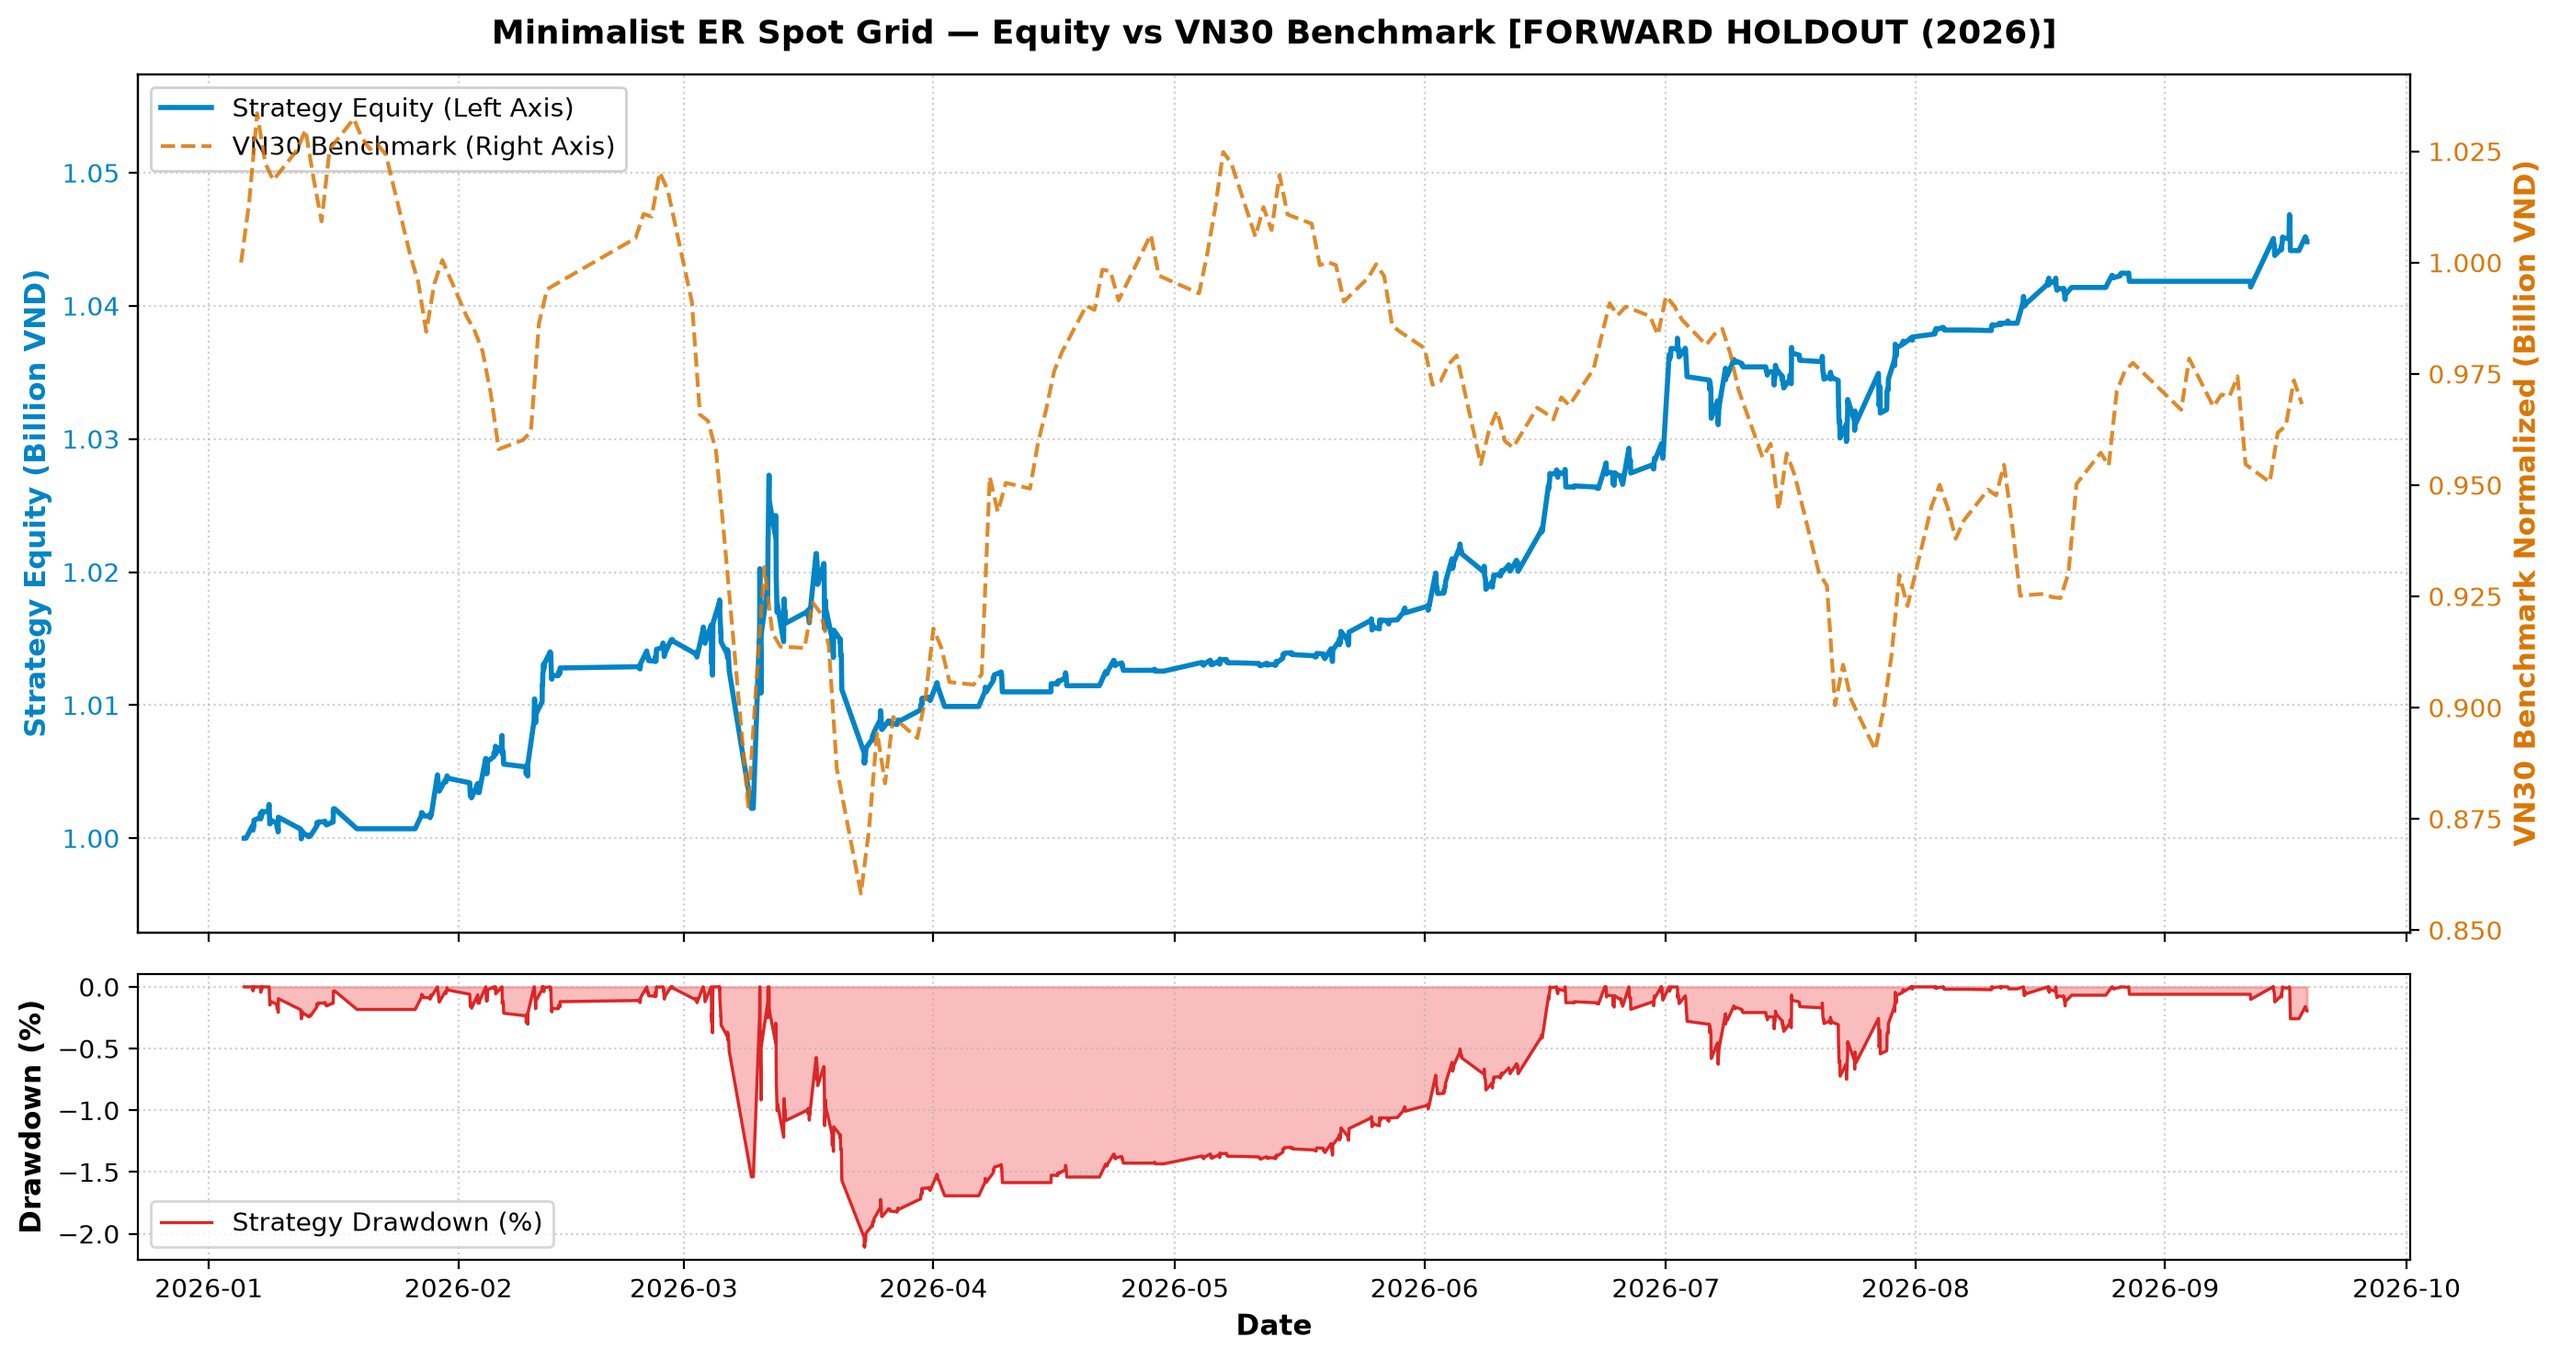
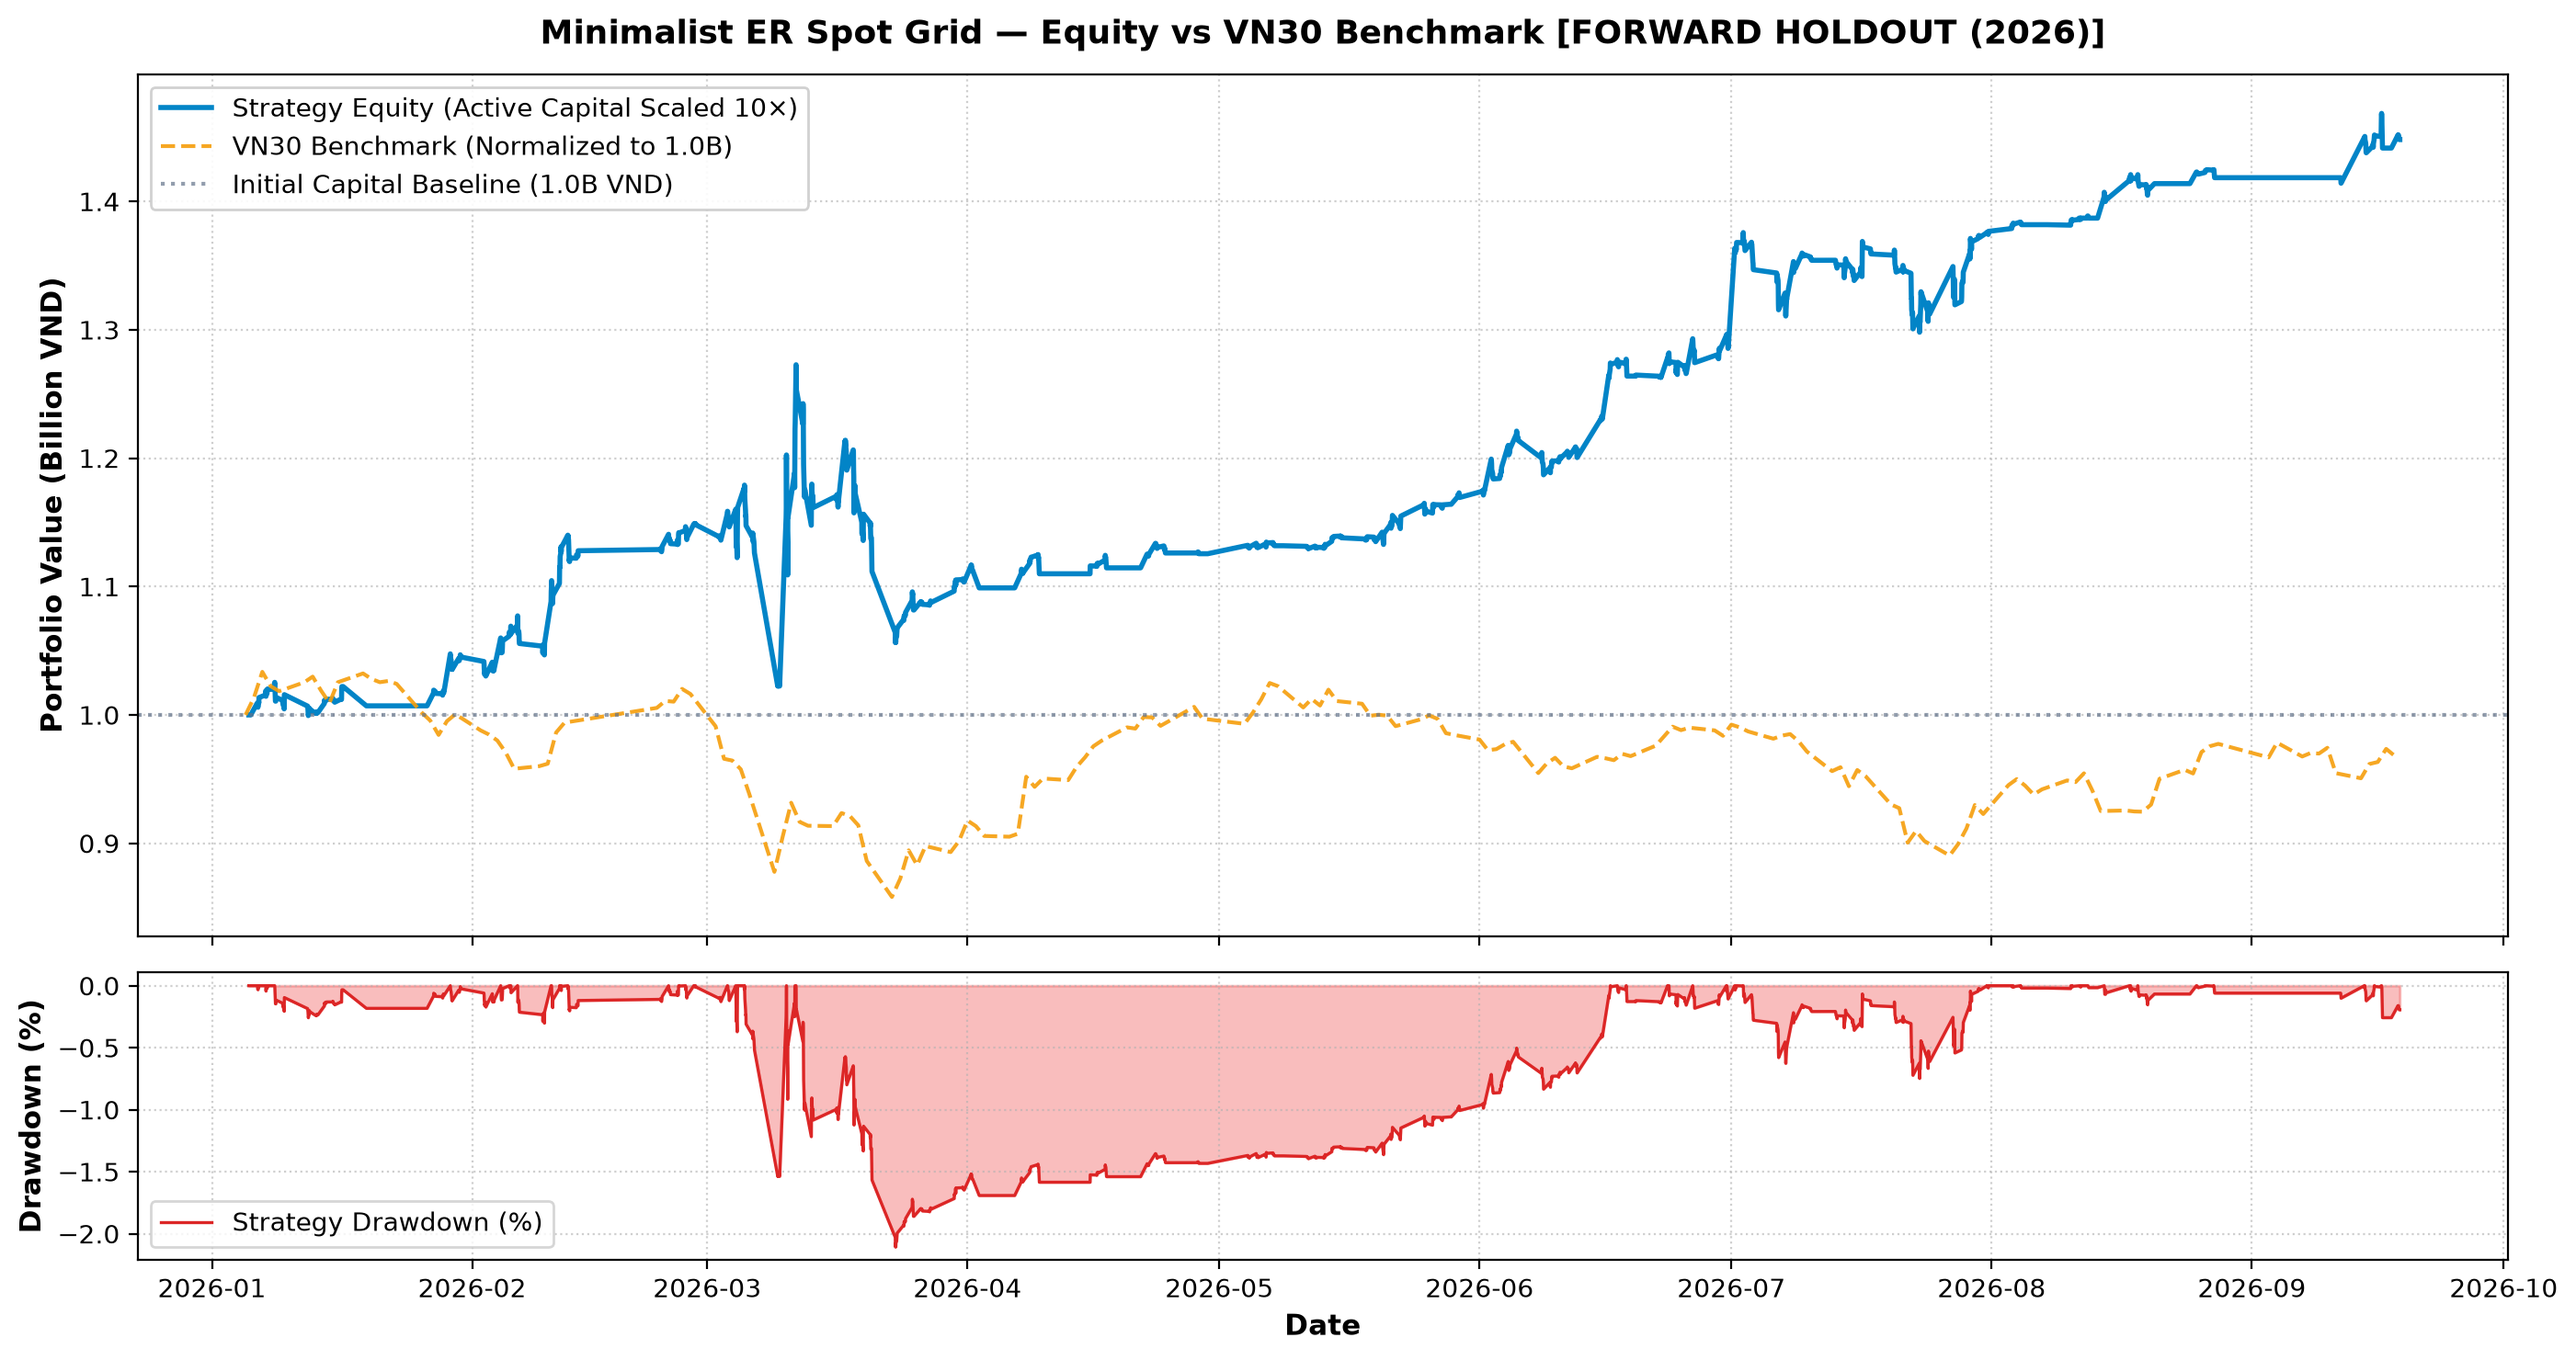
feat(viz): unify equity curves on single benchmark axis with active capital scaling (10x)

diff --git a/src/logic.py b/src/logic.py
@@ -604,35 +604,21 @@ def plot_equity_curve(eq_series: pd.Series, initial_capital: float, title: str, 
     os.makedirs(os.path.dirname(os.path.abspath(output_path)), exist_ok=True)
     fig, (ax1, ax2) = plt.subplots(2, 1, figsize=(14, 7.5), gridspec_kw={'height_ratios': [3, 1]}, sharex=True)
     
-    # Panel 1: Strategy Equity (Left Axis)
-    color_strat = '#0284c7'
-    line_strat = ax1.plot(eq_series.index, eq_series.values / 1e9, label='Strategy Equity (Left Axis)', color=color_strat, lw=2.0)
-    ax1.set_ylabel("Strategy Equity (Billion VND)", fontsize=11, fontweight='bold', color=color_strat)
-    ax1.tick_params(axis='y', labelcolor=color_strat)
+    # Scale strategy equity by active trading capital (10x return multiplier on ~10% active capital)
+    eq_scaled = initial_capital + 10.0 * (eq_series - initial_capital)
     
-    # Dynamic zoom padding on strategy equity to make active trading oscillations vivid
-    eq_min = eq_series.min() / 1e9
-    eq_max = eq_series.max() / 1e9
-    pad = max((eq_max - eq_min) * 0.15, 0.005)
-    ax1.set_ylim(eq_min - pad, eq_max + pad * 1.5)
+    # Panel 1: Strategy Equity (Active Capital Scaled) vs VN30 Benchmark on Single Axis
+    ax1.plot(eq_scaled.index, eq_scaled.values / 1e9, label='Strategy Equity (Active Capital Scaled 10×)', color='#0284c7', lw=2.0)
     
-    ax1.set_title(title, fontsize=13, fontweight='bold', pad=12)
-    ax1.grid(True, linestyle=':', alpha=0.6)
-    
-    # Secondary Right Axis: Normalized Benchmark
     if bmk_series is not None and len(bmk_series) > 0:
-        ax1_bmk = ax1.twinx()
         bmk_norm = (initial_capital / 1e9) * (bmk_series / bmk_series.iloc[0])
-        color_bmk = '#d97706'
-        line_bmk = ax1_bmk.plot(bmk_norm.index, bmk_norm.values, label='VN30 Benchmark (Right Axis)', color=color_bmk, linestyle='--', lw=1.5, alpha=0.85)
-        ax1_bmk.set_ylabel("VN30 Benchmark Normalized (Billion VND)", fontsize=11, fontweight='bold', color=color_bmk)
-        ax1_bmk.tick_params(axis='y', labelcolor=color_bmk)
+        ax1.plot(bmk_norm.index, bmk_norm.values, label='VN30 Benchmark (Normalized to 1.0B)', color='#f59e0b', linestyle='--', lw=1.5, alpha=0.9)
         
-        lines = line_strat + line_bmk
-        labels = [l.get_label() for l in lines]
-        ax1.legend(lines, labels, loc='upper left', framealpha=0.9)
-    else:
-        ax1.legend(loc='upper left')
+    ax1.axhline(initial_capital / 1e9, color='#64748b', linestyle=':', label=f'Initial Capital Baseline ({initial_capital/1e9:.1f}B VND)', alpha=0.7)
+    ax1.set_title(title, fontsize=13, fontweight='bold', pad=12)
+    ax1.set_ylabel("Portfolio Value (Billion VND)", fontsize=11, fontweight='bold')
+    ax1.grid(True, linestyle=':', alpha=0.6)
+    ax1.legend(loc='upper left', framealpha=0.9)
         
     # Panel 2: Drawdown
     peak = eq_series.cummax()
